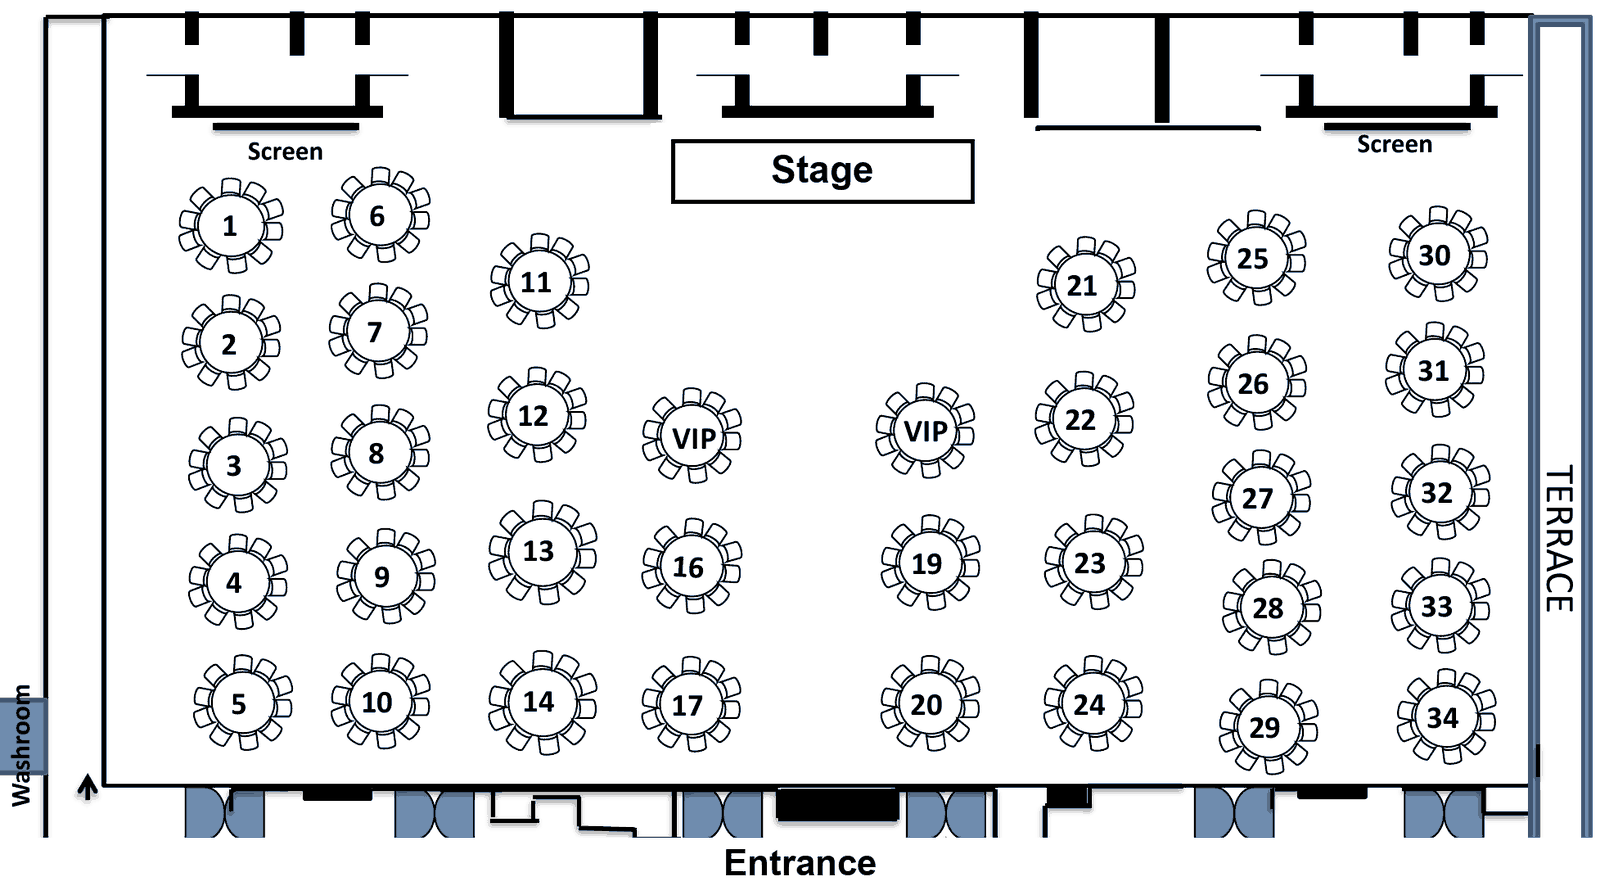
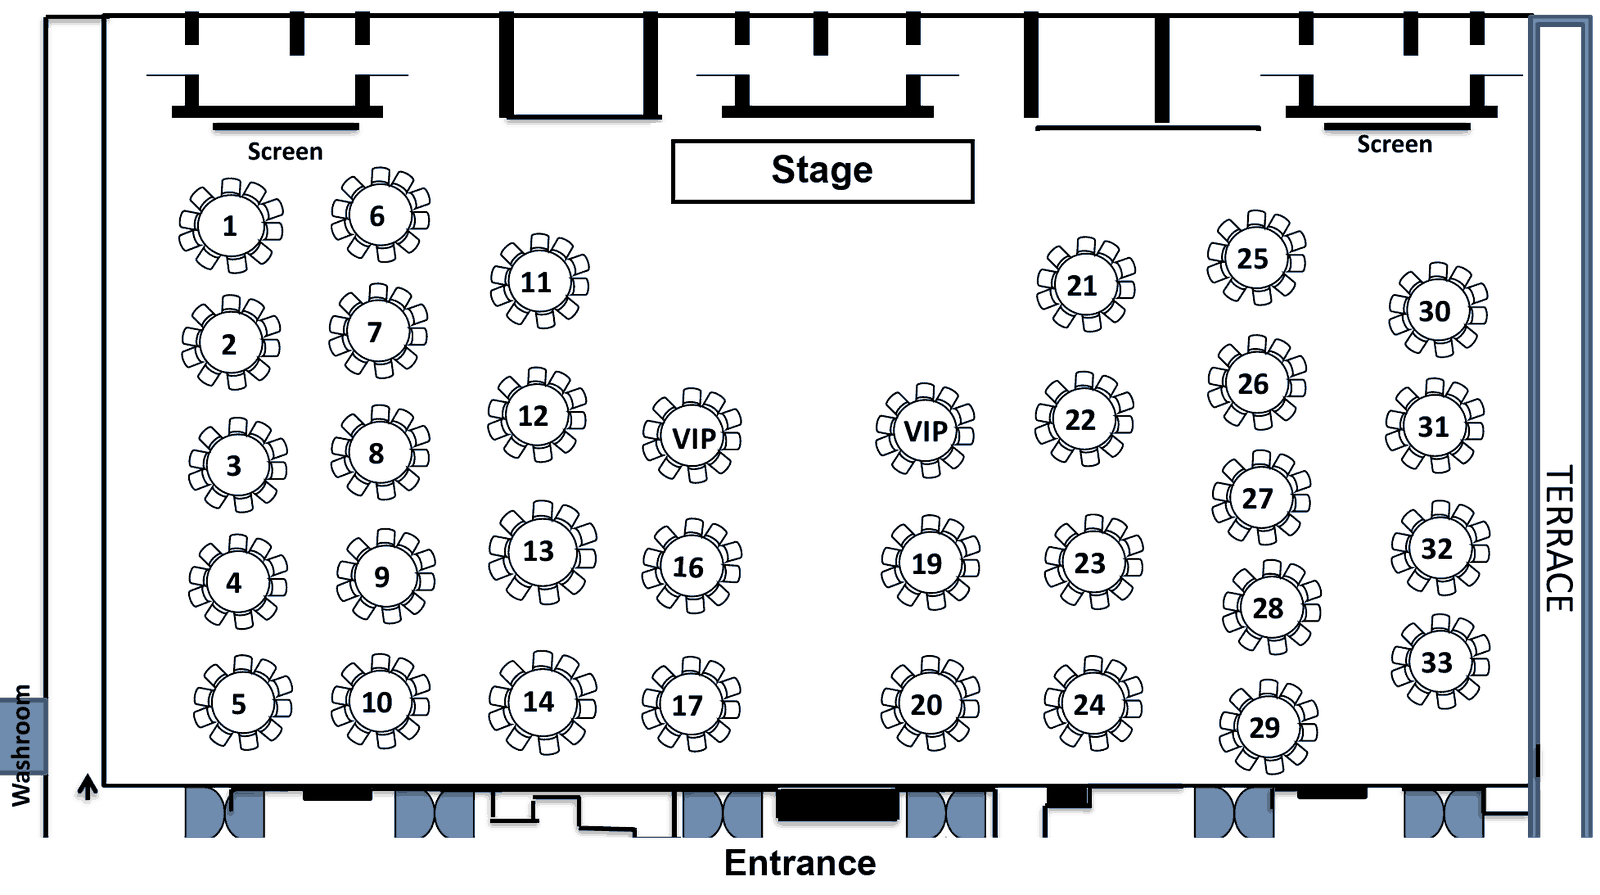
Drop Table 34 and recentre the right-hand column
Table 34 is no longer in use, so it comes off the floor plan entirely
rather than being left unlit. Removing it from the bottom of the
rightmost column left tables 30-33 bunched against the top, so the
remaining four are shifted down 56px — half the gap the removed table
freed — to sit balanced within the same vertical band as before.

seating.png is edited in place in its original 16-colour palette (no
RGB round-trip, so no requantisation), and TABLE_POSITIONS follows the
new cy values so the SVG hotspots stay on the art.

Changed region(s): [[0.8438, 0.2413, 0.9375, 0.8447]]

diff --git a/src/App.jsx b/src/App.jsx
@@ -311,11 +311,10 @@ const TABLE_POSITIONS = [
     {key: 'Table 27', cx: 1261, cy:  497},
     {key: 'Table 28', cx: 1272, cy:  606},
     {key: 'Table 29', cx: 1269, cy:  726},
-    {key: 'Table 30', cx: 1438, cy:  253},
-    {key: 'Table 31', cx: 1435, cy:  369},
-    {key: 'Table 32', cx: 1440, cy:  491},
-    {key: 'Table 33', cx: 1440, cy:  605},
-    {key: 'Table 34', cx: 1446, cy:  716},
+    {key: 'Table 30', cx: 1438, cy:  309},
+    {key: 'Table 31', cx: 1435, cy:  425},
+    {key: 'Table 32', cx: 1440, cy:  547},
+    {key: 'Table 33', cx: 1440, cy:  661},
 ]
 
 // Only light up tables that actually have guests assigned, so a tap never
